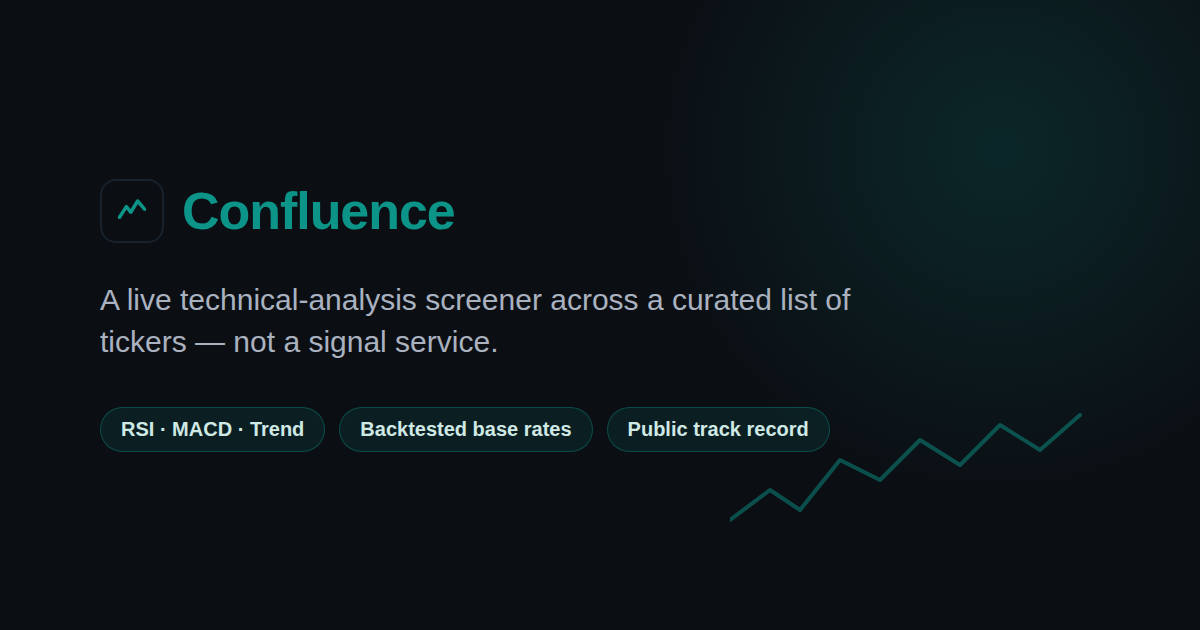
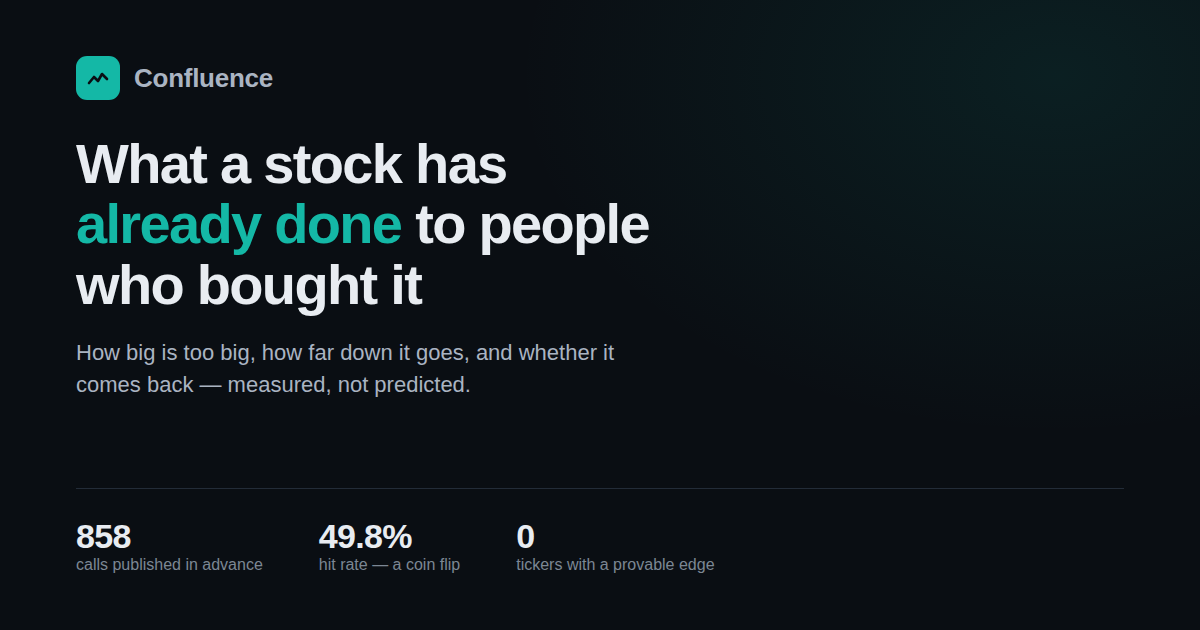
Finalize: the link preview was still selling the old product
Closing pass over what the reframe left behind. The largest thing was
the part nobody sees while working on the site and everybody sees when
it is shared: the OG card and meta tags still read "A live
technical-analysis screener — RSI · MACD · Trend · Backtested base
rates", which by now described exactly the thing the site spends its
front page disproving. A link preview is often the only thing someone
reads.

The card is regenerated from the published record, like every other
number here, so it says what the site currently says: 858 calls, 49.8%,
0 tickers with a provable edge. scripts/build-og.mjs rebuilds it and
refuses to write one whose text would be cut off — which it caught on
the first attempt, when the headline overflowed the frame and the stats
row was cropped away.

Meta description, og: and twitter: tags rewritten to match. CLAUDE.md
brought up to date with the shape the site actually has now, and with
the three rules that are easy to break while trying to be helpful:
plainer wording with an identical claim, demote but never hide, and
nothing on the front pages is written down.

Verified at three widths: no horizontal overflow, no unrendered values,
no page errors on any surface.

684 tests, 25 pages under smoke.

Claude-Session: https://claude.ai/code/session_01JuQasb3mN4CzBNCUbPkWLV

diff --git a/index.html b/index.html
@@ -4,7 +4,7 @@
     <meta charset="UTF-8" />
     <meta name="viewport" content="width=device-width, initial-scale=1.0" />
     <title>Confluence — Live TA Screener</title>
-    <meta name="description" content="A live technical-analysis screener across a curated list of tickers. Not a signal service — a dashboard of what the indicators say right now." />
+    <meta name="description" content="What a stock has already done to people who bought it: how big is too big, how far down it goes, and whether it comes back. Measured, not predicted — and it will not tell you what to buy." />
     <meta name="theme-color" content="#0d9488" />
     <link rel="canonical" href="https://confluence-self.vercel.app/" />
 
@@ -26,16 +26,16 @@
 
     <meta property="og:type" content="website" />
     <meta property="og:site_name" content="Confluence" />
-    <meta property="og:title" content="Confluence — Live TA Screener" />
-    <meta property="og:description" content="A live technical-analysis screener across a curated list of tickers, with backtested base rates instead of vibes. Not a signal service." />
+    <meta property="og:title" content="Confluence — what a stock has already done to people who bought it" />
+    <meta property="og:description" content="How big is too big, how far down it goes, and whether it comes back. Every call published in advance and scored — the hit rate is a coin flip, which is why this site will not tell you what to buy." />
     <meta property="og:url" content="https://confluence-self.vercel.app/" />
     <meta property="og:image" content="https://confluence-self.vercel.app/og-image.png" />
     <meta property="og:image:width" content="1200" />
     <meta property="og:image:height" content="630" />
 
     <meta name="twitter:card" content="summary_large_image" />
-    <meta name="twitter:title" content="Confluence — Live TA Screener" />
-    <meta name="twitter:description" content="A live technical-analysis screener across a curated list of tickers, with backtested base rates instead of vibes. Not a signal service." />
+    <meta name="twitter:title" content="Confluence — what a stock has already done to people who bought it" />
+    <meta name="twitter:description" content="How big is too big, how far down it goes, and whether it comes back. Every call published in advance and scored — the hit rate is a coin flip, which is why this site will not tell you what to buy." />
     <meta name="twitter:image" content="https://confluence-self.vercel.app/og-image.png" />
   </head>
   <body>

diff --git a/scripts/og-card.html b/scripts/og-card.html
@@ -1,0 +1,36 @@
+<!doctype html><html><head><meta charset="utf-8"><style>
+@import url('');
+* { margin:0; padding:0; box-sizing:border-box }
+body {
+  width:1200px; height:630px;
+  background:
+    radial-gradient(900px 600px at 88% 12%, rgba(20,184,166,.10), transparent 60%),
+    #0a0e13;
+  color:#e8ecf1;
+  font-family: -apple-system, BlinkMacSystemFont, "Segoe UI", Helvetica, Arial, sans-serif;
+  display:flex; flex-direction:column; justify-content:flex-start;
+  padding: 56px 76px; position:relative; overflow:hidden;
+}
+.brand { display:flex; align-items:center; gap:14px; margin-bottom:34px }
+.mark { width:44px; height:44px; border-radius:11px; background:#14b8a6; display:flex; align-items:center; justify-content:center }
+.mark svg { display:block }
+.brand span { font-size:26px; font-weight:600; letter-spacing:-.01em; color:#aab4c2 }
+h1 { font-size:56px; line-height:1.08; letter-spacing:-.03em; font-weight:700; max-width:19ch; margin-bottom:22px }
+h1 em { font-style:normal; color:#14b8a6 }
+p { font-size:22px; line-height:1.45; color:#aab4c2; max-width:44ch }
+.stats { display:flex; gap:56px; margin-top:auto; padding-top:28px; border-top:1px solid #232c38 }
+.stat b { display:block; font-size:34px; font-weight:600; letter-spacing:-.02em; font-variant-numeric:tabular-nums }
+.stat span { font-size:16px; color:#7c8794 }
+</style></head><body>
+  <div class="brand">
+    <div class="mark"><svg width="24" height="24" viewBox="0 0 24 24" fill="none"><path d="M3 17l5-6 4 4 4-7 5 5" stroke="#0a0e13" stroke-width="2.6" stroke-linecap="round" stroke-linejoin="round"/></svg></div>
+    <span>Confluence</span>
+  </div>
+  <h1>What a stock has <em>already done</em> to people who bought it</h1>
+  <p>How big is too big, how far down it goes, and whether it comes back — measured, not predicted.</p>
+  <div class="stats">
+    <div class="stat"><b id="calls">—</b><span>calls published in advance</span></div>
+    <div class="stat"><b id="hit">—</b><span>hit rate — a coin flip</span></div>
+    <div class="stat"><b id="dist">—</b><span>tickers with a provable edge</span></div>
+  </div>
+</body></html>

diff --git a/CLAUDE.md b/CLAUDE.md
@@ -1,8 +1,42 @@
 # Confluence
 
-A technical-analysis screener that measures its own predictive power and does not
-find any. Everything below is a fact about this project that is expensive to
-rediscover — not general advice.
+A technical-analysis screener that measured its own predictive power, did not
+find any, and turned that into the product. Everything below is a fact about
+this project that is expensive to rediscover — not general advice.
+
+## The shape
+
+`/` asks what someone is about to buy and two things about how (borrowing?
+holding how long?), then leads with the one measurement those answers make
+relevant. `/why` is the evidence that nothing here predicts direction. `/check`
+turns the measurements into a share count. Everything else is depth.
+
+Three rules follow from that shape and are easy to break while trying to be
+helpful:
+
+- **Plainer wording, identical claim.** `lib/plainRisk.js` writes the front page
+  in words with no vocabulary in them. "Don't go above 3x" reads beautifully and
+  is a recommendation about size; "At 3x, this has already wiped out a position"
+  is the same length and is a fact. The first draft got this wrong.
+- **Demote, never hide.** `lib/guided.js` reorders by relevance. Anything not
+  promoted stays behind a control that is always visible, and the page says what
+  the ordering was based on.
+- **Nothing on the front pages is written down.** Every figure is read from the
+  published files at render time — see `lib/verdict.js`. A hardcoded number is
+  an opinion that was true once. This has been broken once, by hardcoding a hit
+  rate into the refusal copy.
+
+## The liquidation arithmetic
+
+The one number here someone could lose money by trusting. Derived, not asserted:
+a long's equity is N·E·p/p0 − E(N−1), zero at **p/p0 = 1 − 1/N**; a short's is
+E(N+1) − N·E·p/p0, zero at **1 + 1/N**. The adverse move that wipes a position
+out is exactly **1/N**.
+
+Test it against that derivation, never against the implementation. A special
+case here returned `Infinity` for a 1x short — "an unborrowed short can never be
+wiped out", which is false, it dies when price doubles — and **the existing test
+asserted `Infinity` was correct**, which is why it survived.
 
 ## The line the site does not cross
 

diff --git a/README.md b/README.md
@@ -354,6 +354,8 @@ Every derived file the site publishes now has a guard that **recomputes it from 
 
 The brief gets its own guard, because it makes a claim about the code: *"every figure here is computed, tested and caveated on one of them, and none of it is new."* Tests assemble the brief from real bars and assert each figure equals what the source read produces, that a lean never appears in a paragraph without the measurement beside it, and — across all 89 tracked symbols, whatever the readings say — that it never reads as a recommendation.
 
+`npm run build-og` regenerates the link-preview card from the published record — it is the one asset that goes stale silently, and it sold the old product for a while after the site stopped being that product. It refuses to write a card whose text would be cut off.
+
 `npm run smoke` is the general version and needs a preview server and Playwright (not a dependency — it is a large install for something run by hand). It walks all 17 pages checking for uncaught exceptions, unrendered `NaN`/`undefined`, and horizontal overflow, then clicks the things unit tests cannot reach: the filter box at speed, the column picker, the sort headers, the keyboard shortcuts, the CSV download, the position sizer's dropdown and the overlap basket. Both guards were confirmed by reintroducing the original bug and watching them fail.
 
 ## Deploying
